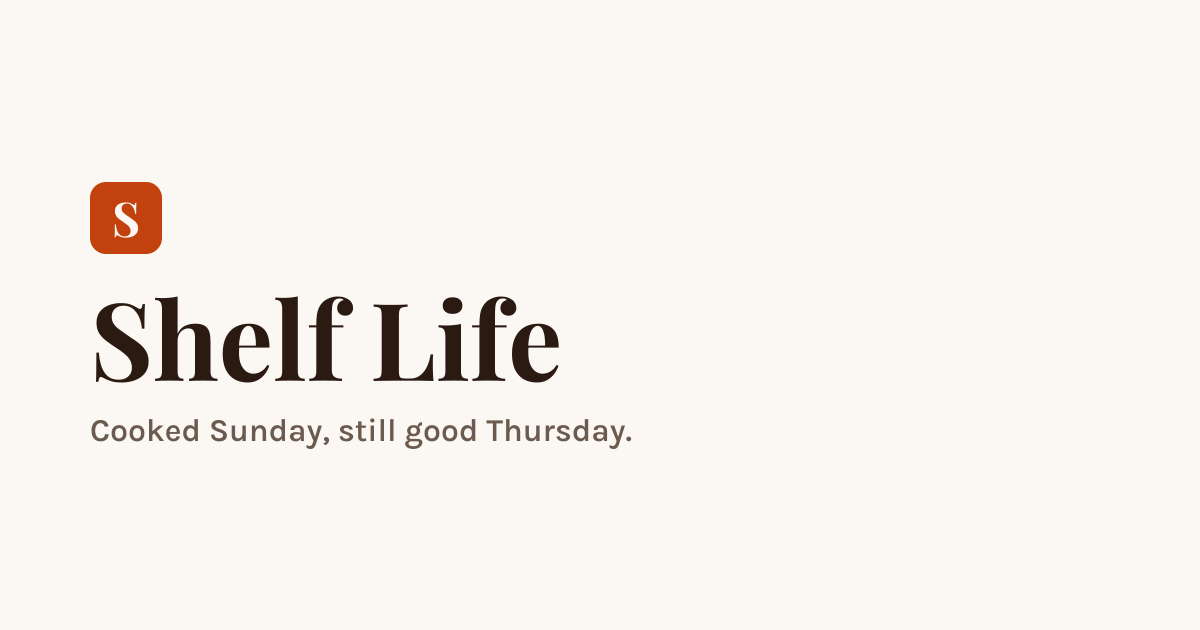
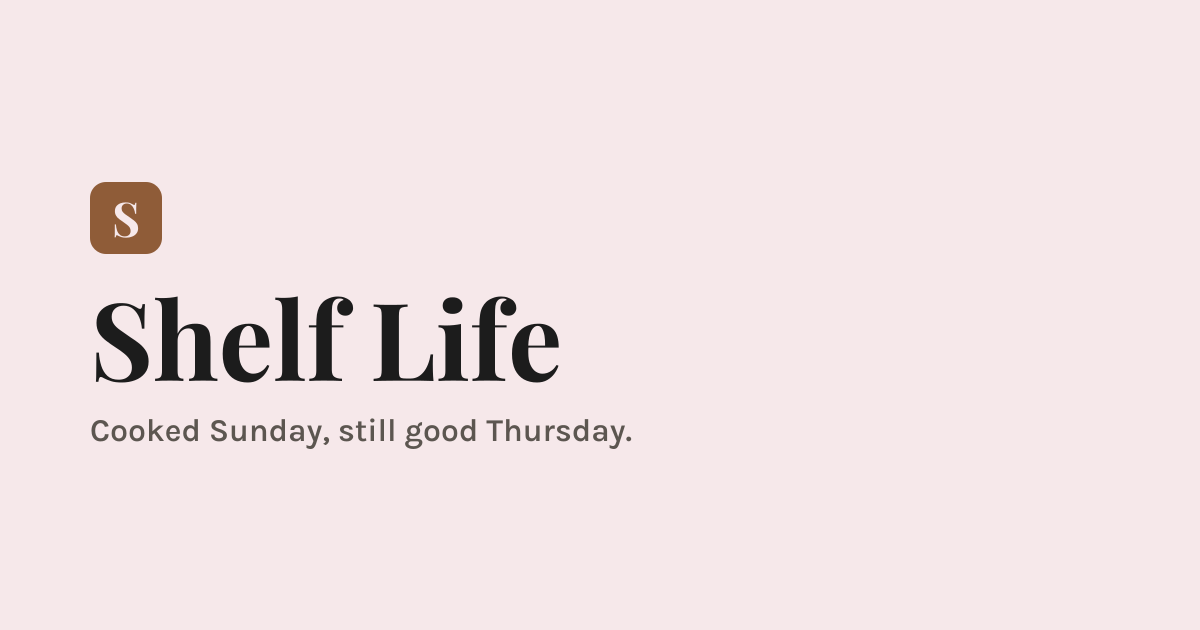
Change color scheme to the blush/toffee/black/teal/evergreen palette
Five swatches don't map 1:1 onto every role a real UI needs, so this
also documents the reasoning in globals.css: Muted Teal fails contrast
as a foreground color (2:1 on Blush, below both the 3:1 icon and 4.5:1
text minimums), so it only appears as a background tint now (sand,
line), lightened toward white rather than toward Blush so it reads as
sage rather than disappearing into grey. ember/gold/muted have no
matching swatch and are derived — gold specifically re-checked at 5.1:1
since a warning color that fails contrast defeats the point.

Regenerated the favicon/OG image to match (scripts/gen-brand-images.tsx
hardcodes the palette since satori can't read CSS custom properties)
and re-derived the cost chart's monochrome bar ramp from the new
terracotta hue.

Changed region(s): [[0.0617, 0.2714, 0.1542, 0.4222]]

diff --git a/app/globals.css b/app/globals.css
@@ -1,16 +1,33 @@
 @import "tailwindcss";
 
 @theme {
-  --color-cream: #fbf7f2;
+  /*
+   * Palette picked from a swatch tool: Lavender Blush #f6e8ea, Toffee Brown
+   * #8f5c38, Carbon Black #1c1c1c, Muted Teal #81b29a, Evergreen #243119.
+   * Five swatches, more roles than that — this is where each one landed and
+   * why:
+   *   - Blush -> cream, Black -> ink, Toffee -> terracotta, Evergreen ->
+   *     olive: direct swaps, one swatch each.
+   *   - Muted Teal cannot be a foreground color here — at 2:1 against Blush
+   *     it fails contrast for both text (4.5:1) and icons (3:1), so it only
+   *     appears as a background (sand, line), tinted toward white rather
+   *     than toward Blush so it reads as sage, not grey.
+   *   - ember/gold/muted have no matching swatch (a hover-darken shade and a
+   *     caution color aren't things a 5-color picker hands you) — derived to
+   *     hold the same job: ember a darkened terracotta, gold a warm amber
+   *     distinct from terracotta and re-checked at 5.1:1 on cream since a
+   *     warning color that fails contrast defeats the point of a warning.
+   */
+  --color-cream: #f6e8ea;
   --color-surface: #ffffff;
-  --color-sand: #f4ece2;
-  --color-line: #e8ded2;
-  --color-ink: #2a1a12;
-  --color-muted: #6b5a4e;
-  --color-terracotta: #c2410c;
-  --color-ember: #9a3412;
-  --color-gold: #b45309;
-  --color-olive: #4d7c0f;
+  --color-sand: #d3e4dc;
+  --color-line: #c0d9cd;
+  --color-ink: #1c1c1c;
+  --color-muted: #5c5650;
+  --color-terracotta: #8f5c38;
+  --color-ember: #6f482c;
+  --color-gold: #8c561b;
+  --color-olive: #243119;
 
   --font-display: var(--font-playfair), Georgia, serif;
   --font-sans: var(--font-karla), ui-sans-serif, system-ui, sans-serif;
@@ -87,10 +104,10 @@
   pointer-events: none;
   background-image: radial-gradient(
       circle at 18% 12%,
-      rgba(194, 65, 12, 0.06),
+      rgba(143, 92, 56, 0.06),
       transparent 45%
     ),
-    radial-gradient(circle at 88% 6%, rgba(180, 83, 9, 0.06), transparent 40%);
+    radial-gradient(circle at 88% 6%, rgba(140, 86, 27, 0.06), transparent 40%);
 }
 
 @media print {

diff --git a/scripts/gen-brand-images.tsx b/scripts/gen-brand-images.tsx
@@ -12,11 +12,20 @@
  * committed .png files sidestep that entirely.
  *
  * Re-run by hand whenever the mark changes:
- *   npx tsx scripts/gen-brand-images.ts
+ *   npx tsx scripts/gen-brand-images.tsx
+ *
+ * satori (what ImageResponse renders through) can't read CSS custom
+ * properties, so these are literal — kept in sync with app/globals.css by
+ * hand. If you change the palette there, change it here too.
  */
 import { readFileSync, writeFileSync } from "node:fs";
 import { join } from "node:path";
 import { ImageResponse } from "next/og";
+
+const CREAM = "#f6e8ea";
+const INK = "#1c1c1c";
+const MUTED = "#5c5650";
+const TERRACOTTA = "#8f5c38";
 
 const fontDir = join(process.cwd(), "assets/fonts");
 const playfair = readFileSync(join(fontDir, "PlayfairDisplay-Bold.ttf"));
@@ -35,7 +44,7 @@ function mark(fontSize: number, marginTop: number, radius?: number) {
         display: "flex",
         alignItems: "center",
         justifyContent: "center",
-        background: "#c2410c",
+        background: TERRACOTTA,
         ...(radius ? { borderRadius: radius } : {}),
       }}
     >
@@ -43,7 +52,7 @@ function mark(fontSize: number, marginTop: number, radius?: number) {
         style={{
           fontFamily: "Playfair Display",
           fontSize,
-          color: "#fbf7f2",
+          color: CREAM,
           lineHeight: 1,
           marginTop,
         }}
@@ -85,7 +94,7 @@ async function main() {
             flexDirection: "column",
             justifyContent: "center",
             padding: "0 90px",
-            background: "#fbf7f2",
+            background: CREAM,
           }}
         >
           <div
@@ -96,14 +105,14 @@ async function main() {
               width: 72,
               height: 72,
               borderRadius: 16,
-              background: "#c2410c",
+              background: TERRACOTTA,
             }}
           >
             <span
               style={{
                 fontFamily: "Playfair Display",
                 fontSize: 48,
-                color: "#fbf7f2",
+                color: CREAM,
                 lineHeight: 1,
                 marginTop: -3,
               }}
@@ -115,7 +124,7 @@ async function main() {
             style={{
               fontFamily: "Playfair Display",
               fontSize: 108,
-              color: "#2a1a12",
+              color: INK,
               lineHeight: 1,
               marginTop: 28,
             }}
@@ -126,7 +135,7 @@ async function main() {
             style={{
               fontFamily: "Karla",
               fontSize: 32,
-              color: "#6b5a4e",
+              color: MUTED,
               marginTop: 22,
             }}
           >

diff --git a/components/CostView.tsx b/components/CostView.tsx
@@ -8,12 +8,12 @@ import { Card, SectionHeading, SlotTag, Stat } from "./ui";
 
 /** One hue, stepped by lightness — the aisles are one quantity, not six categories. */
 const BAR_SHADES = [
-  "#9a3412",
-  "#c2410c",
-  "#d4622a",
-  "#e08050",
-  "#eaa079",
-  "#f0bfa3",
+  "#6f482c",
+  "#8f5c38",
+  "#a97d5d",
+  "#c29d82",
+  "#dcbea7",
+  "#f5decc",
 ];
 
 export function CostView({